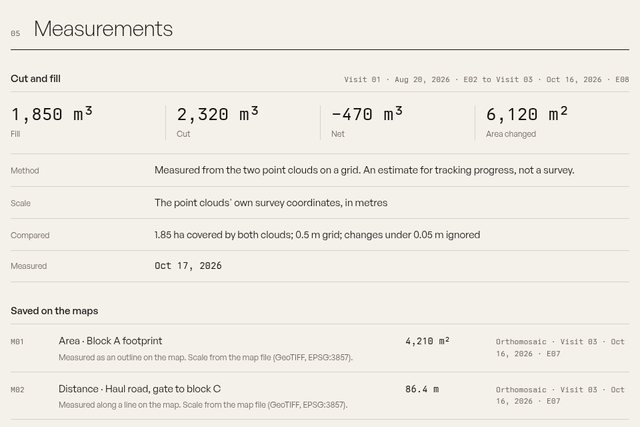
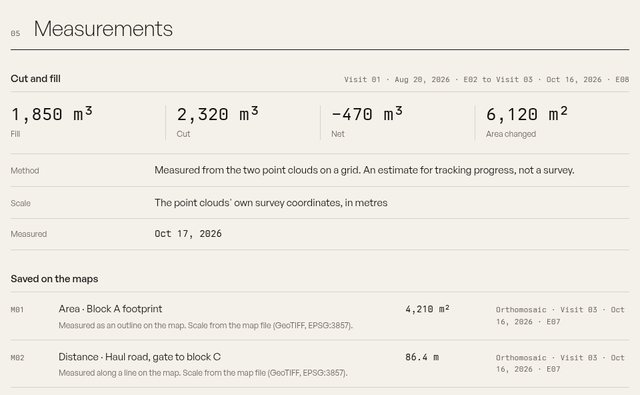
Builders: 3D compare grid copy and measurements shot match the app (10 cm, 0.5 m min grid)

diff --git a/src/app/builders/page.tsx b/src/app/builders/page.tsx
@@ -85,7 +85,7 @@ const HUB: readonly FeatureItem[] = [
   {
     title: '3D compare.',
     body: 'Put two dates side by side, or show only what changed. Bricks measures fill, cut and the area changed between two point clouds.',
-    points: ['Measured on a 0.5 m grid; changes under 10 cm are left out', 'An estimate for tracking progress, not a survey'],
+    points: ['Measured on a 0.5 m grid, coarser on very large sites; changes under 10 cm are left out', 'An estimate for tracking progress, not a survey'],
     shot: 'compare-3d',
     alt: 'Bricks comparing two point clouds of a sample site a month apart, with raised areas in orange and fill, cut and area changed measured below',
   },

diff --git a/src/components/features/FeatureShot.tsx b/src/components/features/FeatureShot.tsx
@@ -5,7 +5,7 @@
  */
 const SHOTS = {
   'progress-report': { w: 960, h: 790, widths: [640, 960] },
-  'report-measure': { w: 960, h: 640, widths: [640, 960] },
+  'report-measure': { w: 960, h: 592, widths: [640, 960] },
   'report-issues': { w: 960, h: 460, widths: [640, 960] },
   'report-evidence': { w: 960, h: 420, widths: [640, 960] },
   'investor-update': { w: 980, h: 766, widths: [640, 980] },
